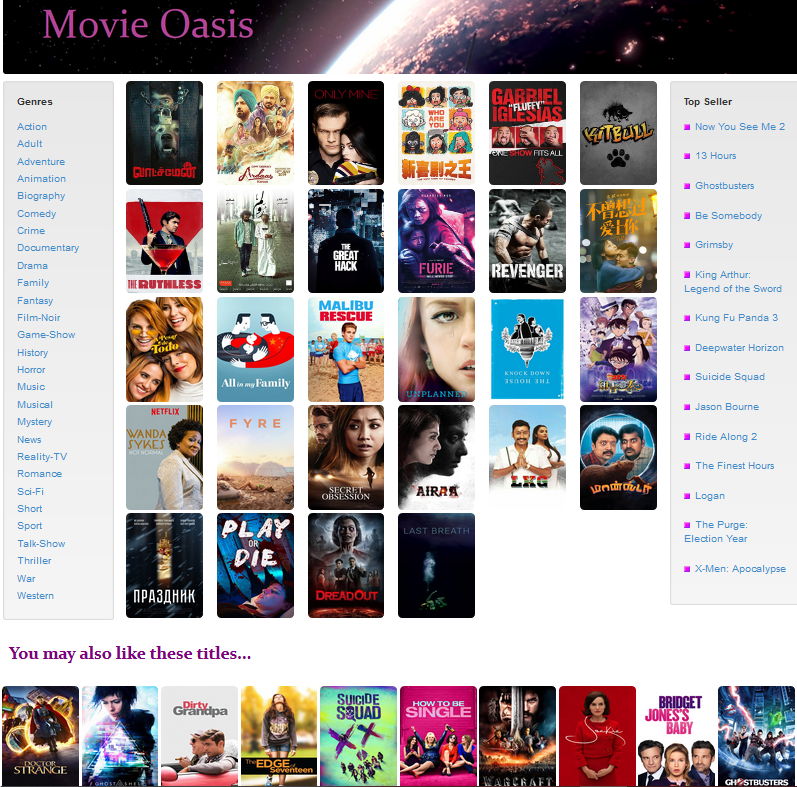
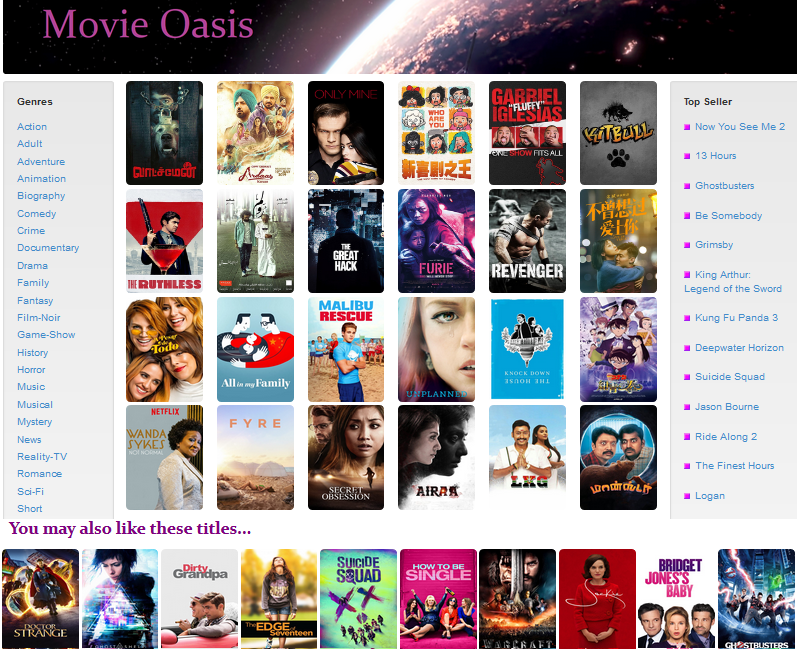
Mainly changes to css to improve UI

diff --git a/index.html b/index.html
@@ -13,51 +13,52 @@
             Hello!
           </h4>
           <h4 style="font-size:60px; padding:0; margin: 0">
-            Hi, Daniel here.
+            I am Daniel, Tan Aik Chong
           </h4>
         </div>
-        <div class="mainbackgroundbase">
-          <a href="#introtext" class="clickables"><div><span>About Me</span></div></a>
-          <a href="#articles" class="clickables"><div><span>My Projects</span></div></a>
-          <a href="#credit" class="clickables"><div><span>Connect</span></div></a>
-        </div>
+      </div>
+      <div class="menu">
+        <a href="#" class="clickables"><div><span class="submenu">About Me</span></div></a>
+        <a href="#articles" class="clickables"><div><span class="submenu">My Projects</span></div></a>
+        <a href="#credit" class="clickables"><div><span class="submenu">Connect</span></div></a>
       </div>
       <div id="introtext" class="introtext">
-        Data Scientist, Data Analyst, Software Engineer rolled-into-one, with a penchant for building end-to-end data science applications.
+        <span class="introtextheader">Data Scientist, Software Engineer</span><br />
+        <span class="introtextsubheader">with a penchant for building end-to-end data science applications</span>
       </div>
 
       <div class="project-container">
         <span>My Projects</span>
         <div id="articles" class="articles">
-          <div class="cards">
-            <h2>Guess the Country</h2>
-            <a href="https://github.com/aikchongtan/sei-19.git" target="_blank"><img class="imgcard" src="./img/guess_the_country.PNG"/></a>
-            <h3>This game marked my first step into the world of web development.  It may look toyish but hey, every journey begins with the first step.  HTML and JS are the fundamental step-stones of all websites so I can't skipped these steps :)</h3>
-            <a href="https://github.com/aikchongtan/sei-19.git" target="_blank"><div class="buttonGo">Play the game, and improve your general knowledge!!!</div></a>
-          </div>
-          <div class="cards">
+            <div class="cards row2">
+                <h2>My "Spotify" Player</h2>
+                <a href="https://dodging-with-friends.herokuapp.com/" target="_blank"><img class="imgcard1" src="./img/song_oasis.png"/></a>
+                <h3 class="card1">This is a full stack ReactJS app that makes asychronised API calls to two media sites to stream musics and lyrics into my personal player. Now, I get to enjoy both songs and lyrics on one player.  (Psst, lyrics are not available on Spotify :P)  You will enjoy the captivating UI too!</h3>
+                <a href="https://dodging-with-friends.herokuapp.com/" target="_blank"><div class="buttonGo">To be solaced by the musics and lyric, Click here!</div></a>
+              </div>          
+          <div class="cards row2">
             <h2>Online Movie Store</h2>
-            <a href="https://movieoasis.herokuapp.com/" target="_blank"><img class="imgcard" src="./img/movie_oasis.PNG"/></a>
-            <h3>It was one of childhood dreams to own a video rental store.  Then Netflix break onto the scene.  So I thought why not build an online movie store that offer movie recommender features to customers.  So, this is the idea that brings fruition to this app :) The app is build on React.JS, HTML5, and Bootstrap CSS front-end, and Express Node.JS, and Postgres database back-end. Data are obtained by asychronised API calls. Please enjoy the site :)</h3>
-            <a href="https://movieoasis.herokuapp.com/" target="_blank"><div class="buttonGo">Don't know what movies to watch? Use my site regularly and get satisfying suggestions!</div></a>
+            <a href="https://movieoasis.herokuapp.com/" target="_blank"><img class="imgcard1" src="./img/movie_oasis.PNG"/></a>
+            <h3>It was a childhood dream to own a video rental store.  So I thought why not build an online movie store that offer movie recommender features to customers.  So, this is the idea that brings fruition to this app :) The app is build on React.JS, HTML5, and Bootstrap CSS front-end, and Express Node.JS, and Postgres database back-end. Data are obtained by asychronised API calls. Please enjoy the site :)</h3>
+            <a href="https://movieoasis.herokuapp.com/" target="_blank"><div class="buttonGo">Don't know what movies to watch? Use my site!</div></a>
           </div>
-          <div class="cards">
-            <h2>Gig Matching</h2>
-            <a href="https://gig-link.herokuapp.com/" target="_blank"><img class="imgcard" src="./img/gigLink.png"/></a>
+          <div class="cards row1">
+            <h2>Job Matching</h2>
+            <a href="https://gig-link.herokuapp.com/" target="_blank"><img class="imgcard imgrow1" src="./img/gigLink.png"/></a>
             <h3>This is a group project that I collaborated on Github with my teammates, Nicholas and Nur Aqilaha.  We decided on building an app with Ruby-on-Rails, to match short-term job seekers with potential hirers.  We hope to relieve the cost and time pressure felt by job-seekers and hirers in the gig economy.</h3>
             <a href="https://gig-link.herokuapp.com/" target="_blank"><div class="buttonGo">Looking for a gig? Looking to staff a gig? Search here, and You shall find!</div></a>
           </div>
-          <div class="cards">
-            <h2>My "Spotify" Player, augmented with Lyrics</h2>
-            <a href="https://dodging-with-friends.herokuapp.com/" target="_blank"><img class="imgcard" src="./img/Dodging-with-friends.png"/></a>
-            <h3>This is a full stack ReactJS app that makes asychronised API calls to two media sites to stream musics and lyrics into my personal player. Now, I get to enjoy both songs and lyrics on one player.  (Psst, lyrics are not available on Spotify :P)  You will enjoy the captivating UI too!</h3>
-            <a href="https://dodging-with-friends.herokuapp.com/" target="_blank"><div class="buttonGo">To be solaced by the musics and lyric, Click here!</div></a>
-          </div>
+          <div class="cards row1">
+              <h2>Hang Man Game</h2>
+              <a href="https://aikchongtan.github.io/Guess_the_Country/" target="_blank"><img class="imgcard imgrow1" src="./img/guess_the_country.PNG"/></a>
+              <h3>This game marked my first step into the world of web development.  It may look toyish but hey, every journey begins with the first step.  HTML5, CSS and JavaScripts are the fundamental step-stones of all websites so I can't skipped these steps :) Watch this space for many more apps to launch !!!</h3>
+              <a href="https://aikchongtan.github.io/Guess_the_Country/" target="_blank"><div class="buttonGo">Play the game, and improve your general knowledge!!!</div></a>
+            </div>          
         </div>
       <div>
 
       <div id="credit" class="credit">
-        <span style="color:rgba(100,100,100,0.5); font-style:italic">Connect With Me:</span>
+        <span style="font-style:italic">Connect With Me:</span>
         <div class="connectCard">
           <div>
             LinkedIn: <a href="linkedin.com/in/daniel-tan-a12017161">linkedin.com/in/daniel-tan-a12017161</a>

diff --git a/style.css b/style.css
@@ -9,29 +9,43 @@ body{
   
   .mainbackground{
     background-image: url('./img/banner.png');
-    height: 100vh;
+    height: 300px;
     width: 100%;
     background-size: 100% 100%;
+  
+    z-index: -10;
+   
     margin: 0 auto;
     box-sizing: border-box;
     border: 0;
     padding: 0;
     position: relative;
+    background-attachment: fixed;
   }
   
-  .mainbackgroundbase{
+  .menu{
     background-color: rgba(0,0,0,0.5);
-    height: 10%;
+    /*height: 10%;*/
     width: 100%;
-    position: absolute;
+    /*height: 70px;*/
+    margin: 0;
+    /*position: absolute;*/
     bottom: 0;
     display: flex;
     flex-direction: row;
+    font: 14px;
     justify-content:space-between;
+  }
+
+  .submenu {
+    font-size: 25px !important;
+    vertical-align: center !important;
+    font-family: "SF Pro Display","SF Pro Icons","Helvetica Neue","Helvetica","Arial",sans-serif;
+ 
   }
   
   .clickables{
-    line-height: 100px;
+    line-height: 35px;
     width: 33.33%;
     display: inline-block;
     text-align: center;
@@ -65,31 +79,51 @@ body{
     left: 50%;
     transform: translate(-50%, -80%);
     text-align: center;
+    margin-top: 30px;
+    font-family: "SF Pro Display","SF Pro Icons","Helvetica Neue","Helvetica","Arial",sans-serif;
+    opacity: 1;
   }
   
   .introtext{
-    color: rgba(0,0,0,0.5);
+    color: #444341;
     width: 95%;
     margin-top: 50px;
     margin-left: auto;
     margin-right: auto;
-    font-size: 80px;
+    font-size: 40px;
     text-align: center;
     padding-bottom: 40px;
     border-bottom: 1px solid rgba(200,200,200,0.5);
+    font-family: "SF Pro Display","SF Pro Icons","Helvetica Neue","Helvetica","Arial",sans-serif;
+  }
+
+  .introtextheader{
+    font-size: 40px;
+
+  }
+  .introtextsubheader{
+    font-size: 35px;
+
   }
   
   .project-container{
-    margin-top: 50px;
+    margin-top: 40px;
     display: flex;
     flex-direction: column;
     text-align: center;
+ 
+    font-family: "SF Pro Display","SF Pro Icons","Helvetica Neue","Helvetica","Arial",sans-serif;
   }
   
   .project-container span{
-    font-size: 40px;
-    font-weight: bold;
-    color: rgba(0,0,0,0.5)
+    
+    color: #444341;
+    font-size: 35px;
+line-height: 1.08365;
+font-weight: 600;
+letter-spacing: -.003em;
+font-family: "SF Pro Display","SF Pro Icons","Helvetica Neue","Helvetica","Arial",sans-serif;
+
   }
   
   .articles{
@@ -110,12 +144,30 @@ body{
     flex-direction: column;
     text-align: justify;
     width: 40%;
-    color: rgba(100,100,100,0.5);
+    color: #444341;
+    font-family: "SF Pro Display","SF Pro Icons","Helvetica Neue","Helvetica","Arial",sans-serif;
   }
   
   .cards h2{
-    color: rgba(0,0,0,0.5);
-    font-weight: bold;
+    color: #444341;
+    font-weight: normal;
+    font-family: "SF Pro Icons","Helvetica Neue","Helvetica","Arial",sans-serif;
+  }
+
+  .cards h3{
+    font-weight: normal;
+  }
+
+  .row1 {
+    padding-top: 10px;
+  }
+
+  .imgrow1 {
+    height: 310px;
+  }
+
+  .cards h3.card1 {
+    line-height: 1.75;
   }
   .cards a{
     text-decoration: none;
@@ -123,7 +175,7 @@ body{
   
   .cards a:link{
     color: black;
-    font-weight: bold;
+    
   }
   
   .smallarrow{
@@ -136,18 +188,29 @@ body{
     text-align: left;
     border-radius: 25px
   }
+
+  .imgcard1{
+    max-height:100%;
+    width: 100%;
+    height: 600px;
+    text-align: left;
+    border-radius: 25px;
+
+  }
   
   .buttonGo{
     text-align: center;
-    height:20px;
-  
+    height:25px;
+    padding-top: 8px;
     min-width: 200px;
-    border-radius: 25px;
+    border-radius: 15px;
     background-color: rgba(200,200,200,0.5);
+    margin-left: 0;
+    margin-right: 0;
   }
   
   .credit{
-    width: 40%;
+    width: 85%;
     margin-top: 50px ;
     margin-left: auto;
     margin-right: auto;
@@ -158,7 +221,7 @@ body{
   
   .connectCard{
     background-color: rgba(200,200,200,0.5);
-    border-radius: 25px;
+    border-radius: 15px;
     width: 100%;
     padding: 10px;
     display: flex;
